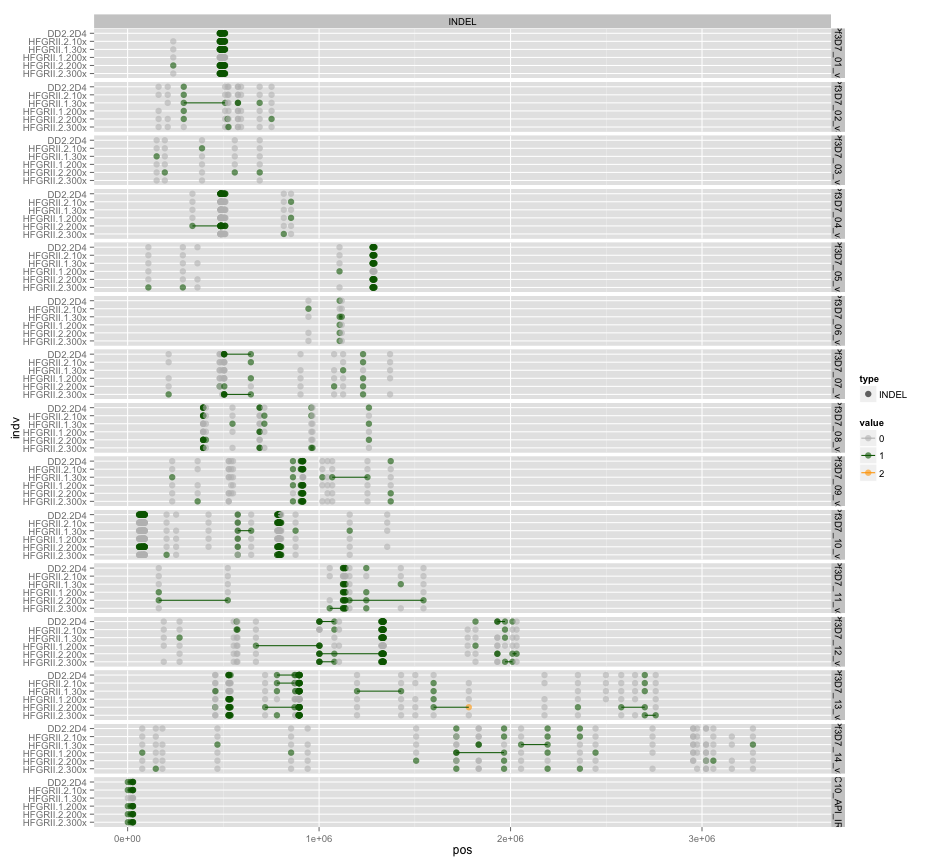
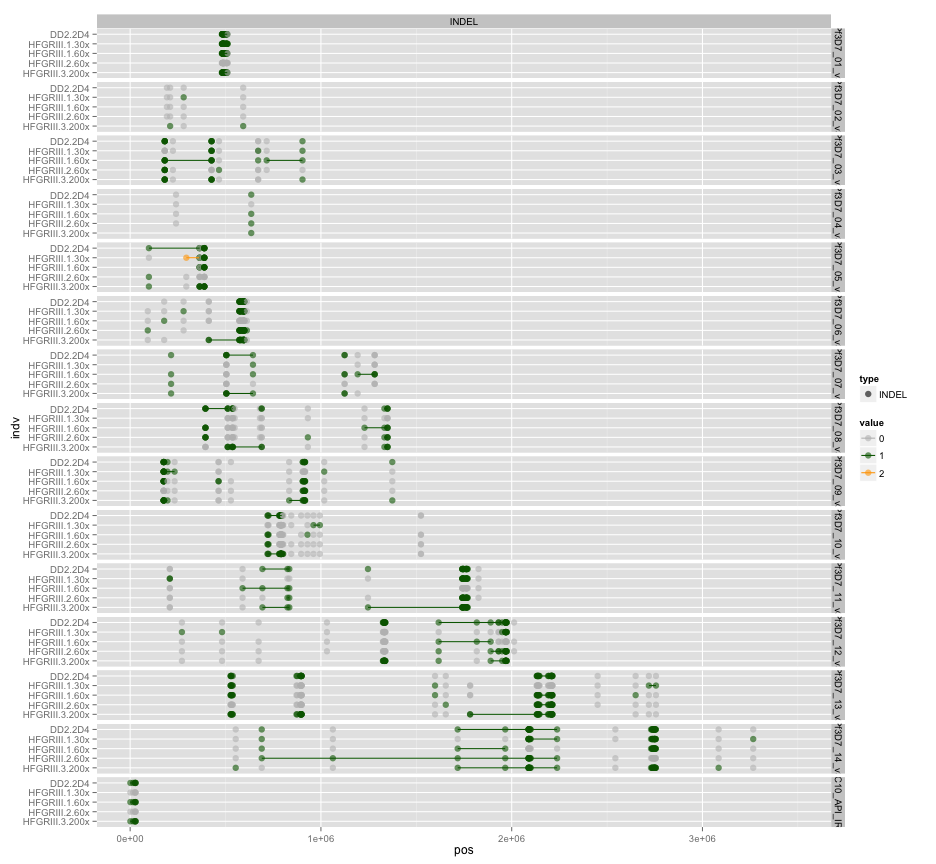
HFGR plots, separate sets

Changed region(s): [[0.031, 0.0312, 0.8985, 1.0], [0.5267, 0.9375, 0.5577, 1.0]]

diff --git a/reports/151113_plotHaplotypes_HFGR/plotHaplotypes.md b/reports/151113_plotHaplotypes_HFGR/plotHaplotypes.md
@@ -137,27 +137,28 @@ ggplot(subset(genotabH2,type=="INDEL"),aes(x=pos,y=indv,colour=value,group=haplo
 #HFGR - GIII
 
 #all vars
-ggplot(genotabH2,aes(x=pos,y=indv,colour=value,group=haplo,shape=type)) + geom_point(size=3) + 
-  geom_line(data=subset(genotabH2,value!=0)) + facet_grid(chr ~ .) + xlim(0,3.5e6) +colsc
+ggplot(genotabH3,aes(x=pos,y=indv,colour=value,group=haplo,shape=type)) + geom_point(size=3) + 
+  geom_line(data=subset(genotabH3,value!=0)) + facet_grid(chr ~ .) + xlim(0,3.5e6) +colsc
 ```
 
 ![plot of chunk unnamed-chunk-6](figure/unnamed-chunk-6-1.png) 
 
 ```r
 #SNPs only
-ggplot(subset(genotabH2,type=="SNP"),aes(x=pos,y=indv,colour=value,group=haplo,shape=type)) + geom_point(alpha=0.6,size=3) + 
-  geom_line(data=subset(genotabH2,value!=0 & type=="SNP")) + facet_grid(chr ~ type) + xlim(0,3.5e6) +colsc
+ggplot(subset(genotabH3,type=="SNP"),aes(x=pos,y=indv,colour=value,group=haplo,shape=type)) + geom_point(alpha=0.6,size=3) + 
+  geom_line(data=subset(genotabH3,value!=0 & type=="SNP")) + facet_grid(chr ~ type) + xlim(0,3.5e6) +colsc
 ```
 
 ![plot of chunk unnamed-chunk-6](figure/unnamed-chunk-6-2.png) 
 
 ```r
 #INDELs only
-ggplot(subset(genotabH2,type=="INDEL"),aes(x=pos,y=indv,colour=value,group=haplo,shape=type)) + geom_point(alpha=0.6,size=3) + 
-  geom_line(data=subset(genotabH2,value!=0 & type=="INDEL")) + facet_grid(chr ~ type) + xlim(0,3.5e6) +colsc
+ggplot(subset(genotabH3,type=="INDEL"),aes(x=pos,y=indv,colour=value,group=haplo,shape=type)) + geom_point(alpha=0.6,size=3) + 
+  geom_line(data=subset(genotabH3,value!=0 & type=="INDEL")) + facet_grid(chr ~ type) + xlim(0,3.5e6) +colsc
 ```
 
 ```
+## geom_path: Each group consist of only one observation. Do you need to adjust the group aesthetic?
 ## geom_path: Each group consist of only one observation. Do you need to adjust the group aesthetic?
 ```
 
